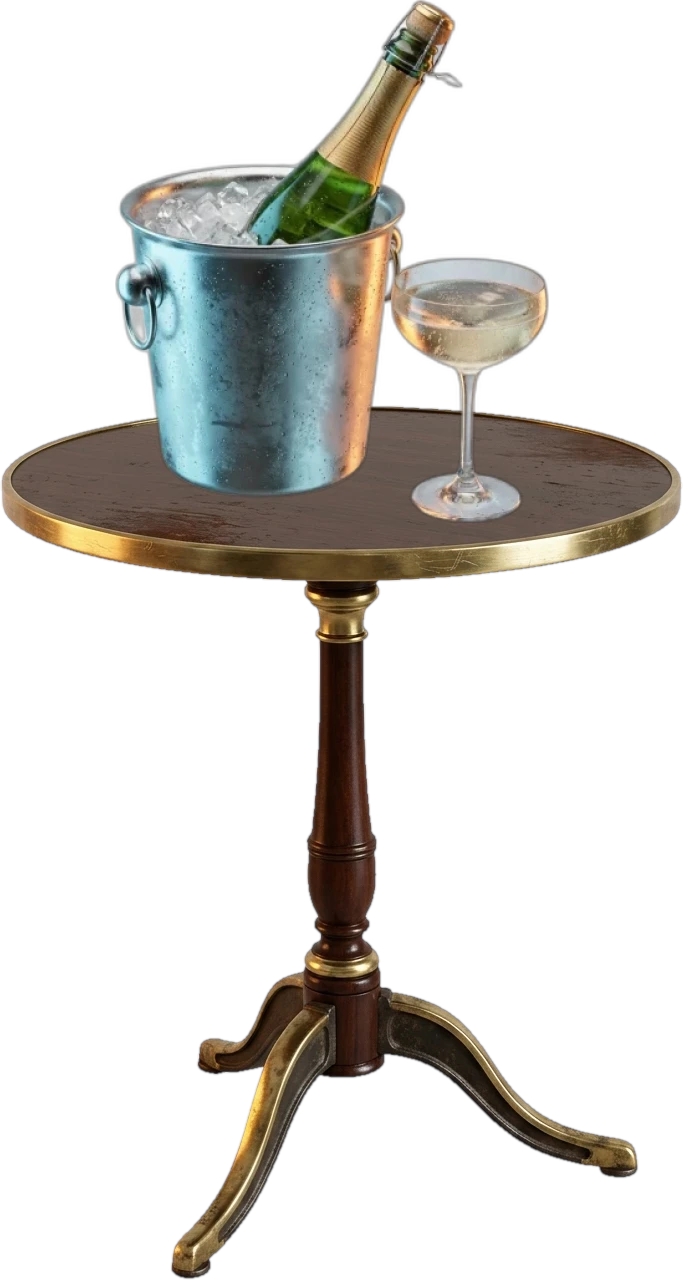
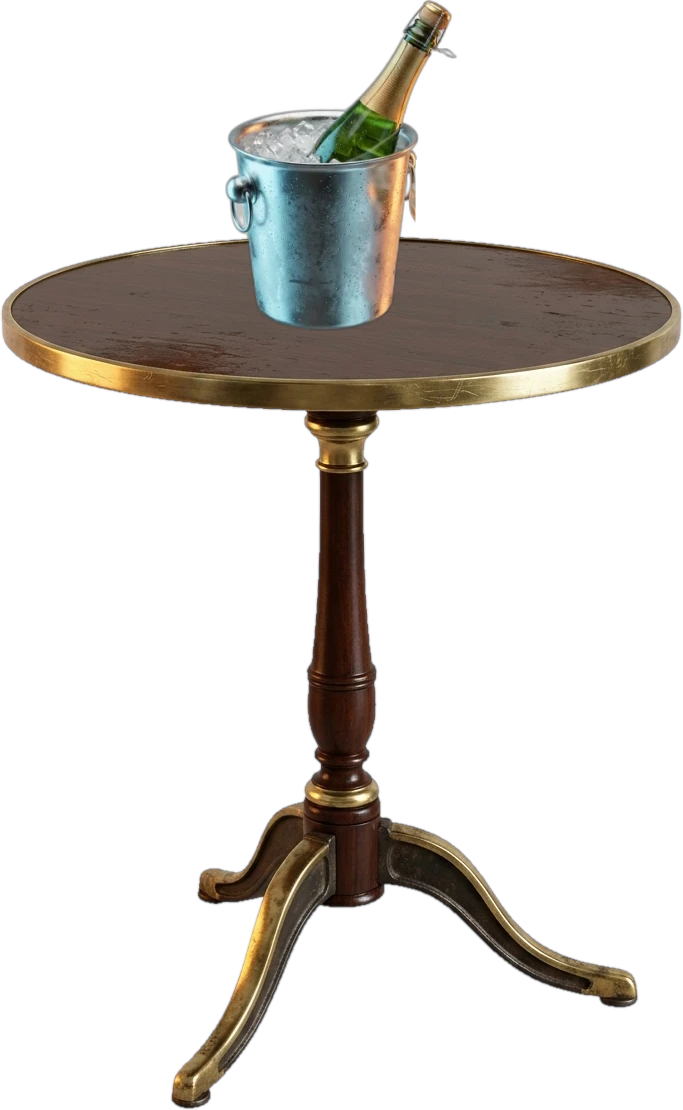
Q5: 샴페인 잔 제거, 양동이와 병만 탁자 가운데에

diff --git a/frontend/src/components/question/DeckView.tsx b/frontend/src/components/question/DeckView.tsx
@@ -29,7 +29,7 @@ const WATER_Y = 503; // 고래가 솟는 수면
 
 interface Spot { x: number; y: number; w: number; h: number; ax: number; ay: number }
 const SPOTS: Record<string, Spot> = {
-  experience: { x: 560, y: 450, w: 140, h: 230, ax: 630, ay: 600 }, // 앞쪽 벤치 왼쪽 (샴페인)
+  experience: { x: 560, y: 470, w: 140, h: 210, ax: 630, ay: 600 }, // 앞쪽 벤치 왼쪽 (샴페인)
   stability: { x: 355, y: 485, w: 160, h: 175, ax: 430, ay: 585 }, // 앞쪽 벤치 오른쪽 (별자리 도감)
   change: { x: 745, y: 505, w: 170, h: 245, ax: 825, ay: 640 }, // 난간 앞 갑판 (망원경)
 };
@@ -38,7 +38,7 @@ const SPOTS: Record<string, Spot> = {
  * foot: 물건이 바닥에 닿는 점(1376x768 기준), h: 높이.
  */
 const OBJECTS: Record<string, { src: string; foot: [number, number]; h: number; flip?: boolean }> = {
-  experience: { src: '/q5/obj_champagne.webp', foot: [630, 670], h: 225 },
+  experience: { src: '/q5/obj_champagne.webp', foot: [630, 670], h: 195 },
   stability: { src: '/q5/obj_atlas.webp', foot: [430, 655], h: 170 },
   change: { src: '/q5/obj_telescope.webp', foot: [825, 740], h: 215, flip: true },
 };

diff --git a/tools/build_q5_props.py b/tools/build_q5_props.py
@@ -70,14 +70,17 @@ def main():
     h, w = table.shape[:2]
     print('탁자', w, h)
     ch = cv2.imread(os.path.join(SRC, 'champagne_only.webp'), cv2.IMREAD_UNCHANGED)
-    # 양동이 지름이 윗판 너비의 약 20% 가 되도록 줄이고, 윗판 가운데보다 약간 왼쪽에 올린다
-    sc = (w * 0.42) / (ch.shape[1] * 0.66)
+    # 오른쪽의 샴페인 잔은 지운다 (양동이와 병만 쓴다)
+    ch[int(ch.shape[0] * 0.46):, int(ch.shape[1] * 0.66):, 3] = 0
+    ys, xs = np.where(ch[..., 3] > 8)
+    ch = ch[ys.min():ys.max() + 1, xs.min():xs.max() + 1]
+    # 양동이 지름이 윗판 너비의 약 34% 가 되도록 줄이고, 윗판 가운데에 올린다
+    sc = (w * 0.34) / ch.shape[1]
     ch = cv2.resize(ch, (int(ch.shape[1] * sc), int(ch.shape[0] * sc)), interpolation=cv2.INTER_AREA)
-    # 윗판은 y 가 위에서 약 8%~28% 사이에 있다 (타원의 가운데 약 18%)
+    # 윗판 타원의 가운데는 위에서 약 10% 높이다. 양동이 바닥이 거기에 오도록 맞춘다
     top_c = int(h * 0.10)
-    # 양동이 바닥이 윗판 타원 가운데에 오도록: 샴페인 그림의 바닥 근처(키의 94%)를 맞춘다
-    x = int(w * 0.5 - ch.shape[1] * 0.52)
-    y = int(top_c - ch.shape[0] * 0.94)
+    x = int(w * 0.5 - ch.shape[1] * 0.5)
+    y = int(top_c - ch.shape[0] * 0.97)
     base = over(table.copy(), ch, x, y)
     save(base, 'obj_champagne.webp')
     print('탁자 윗판 기준 샴페인 위치', x, y)
